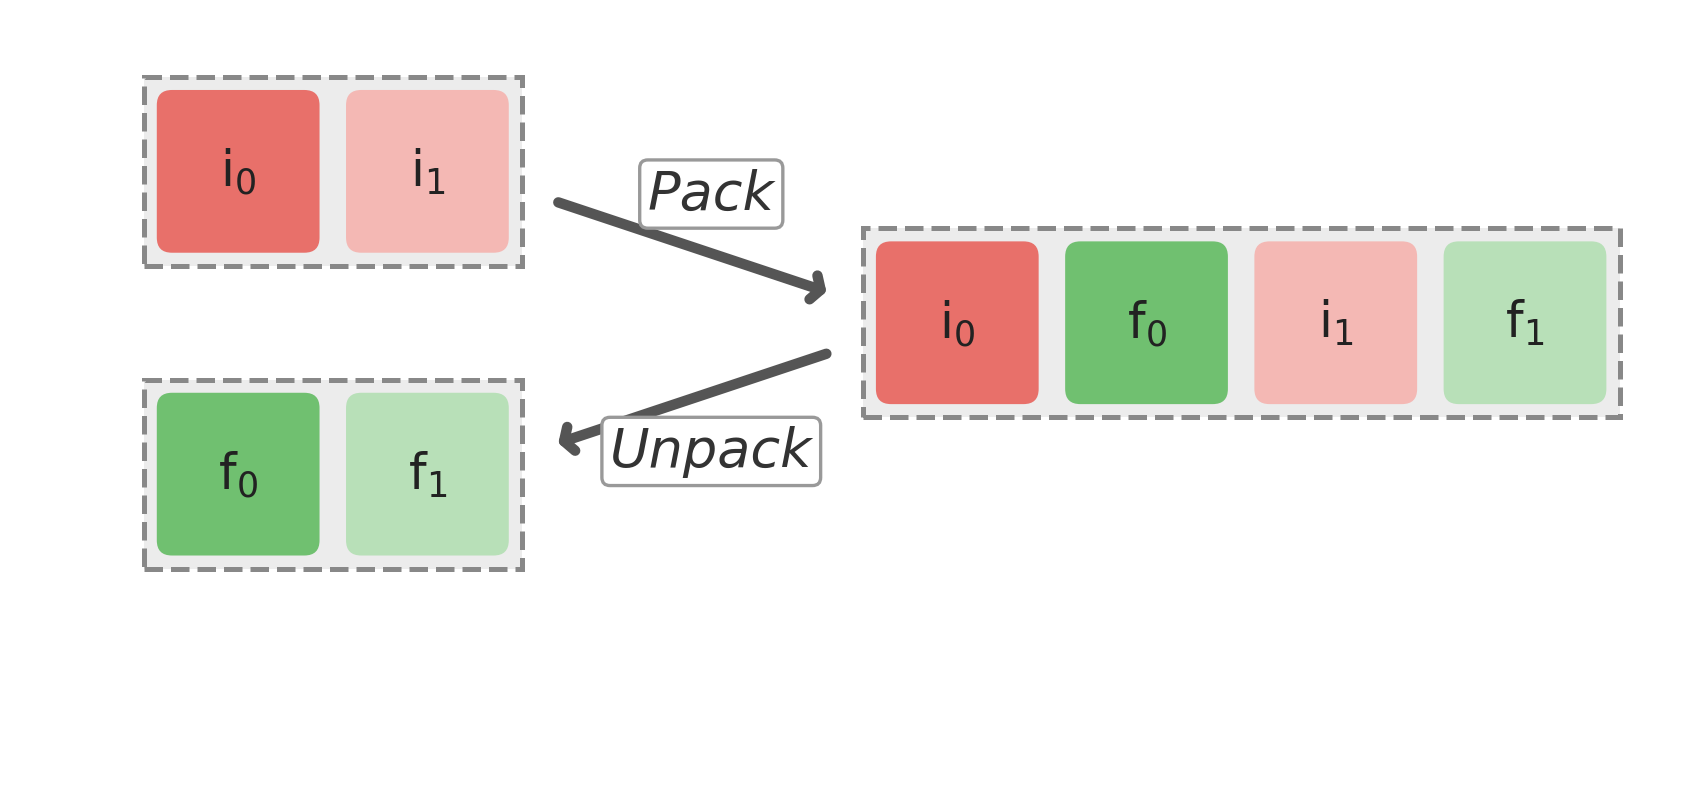
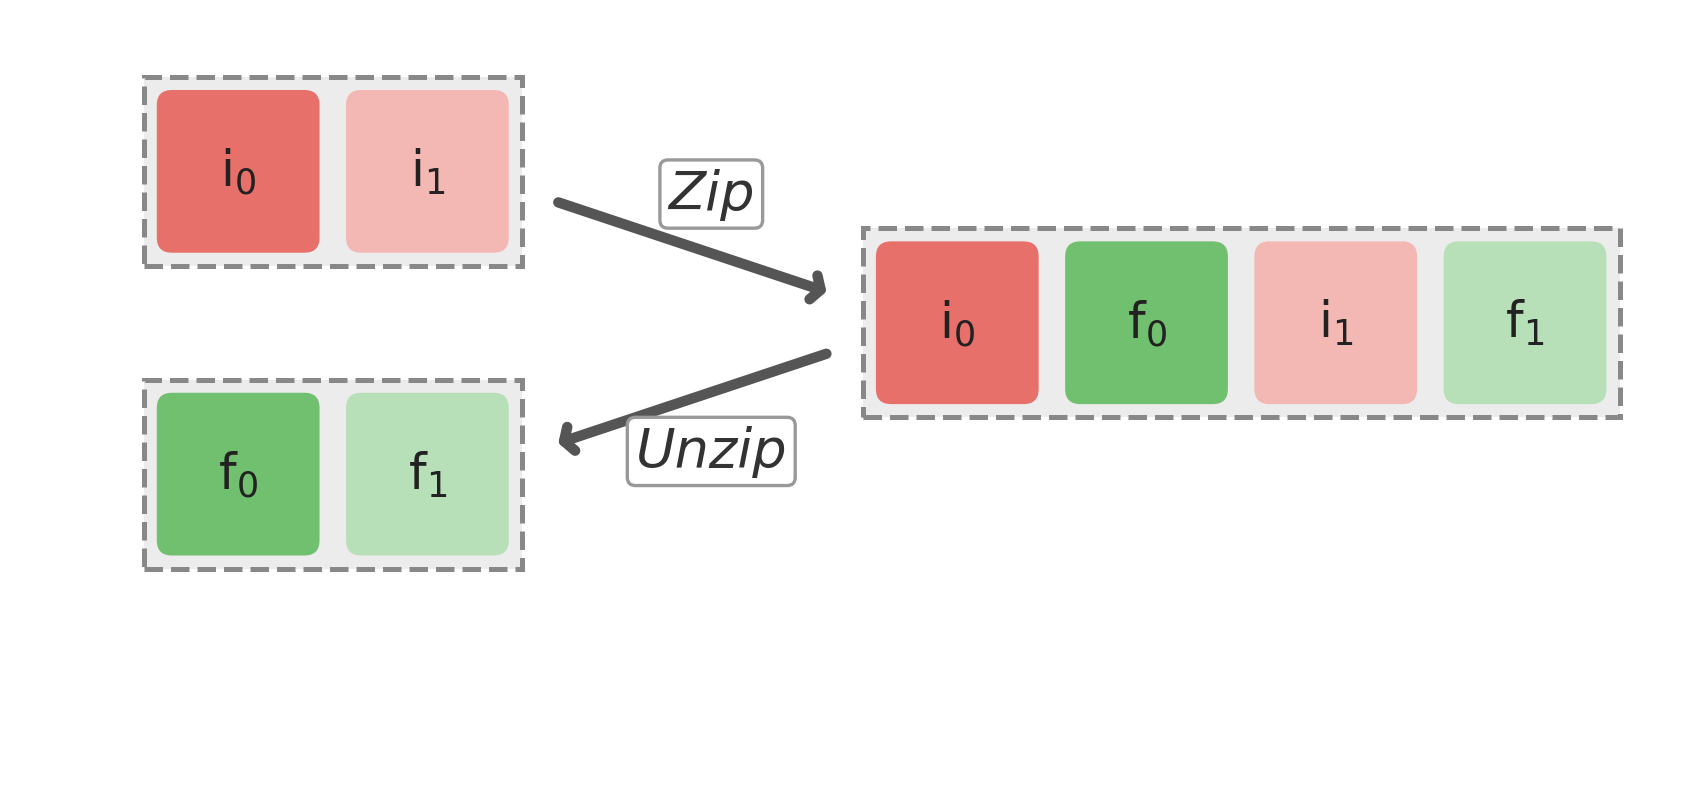
Add

Changed region(s): [[0.3417, 0.5178, 0.4971, 0.6091], [0.3728, 0.1827, 0.466, 0.3046]]

diff --git a/Plots/LayoutTransformations/pack_unpack.py b/Plots/LayoutTransformations/pack_unpack.py
@@ -95,7 +95,7 @@ a2x = pack_x0 - cell/2 - 0.15
 a2y = pack_y + 0.15
 ax.annotate('', xy=(a2x, a2y), xytext=(a1x, a1y), arrowprops=arrow_kw)
 mx, my = (a1x+a2x)/2, (a1y+a2y)/2
-ax.text(mx+0.1 , my + 0.28, 'Pack', ha='center', va='center',
+ax.text(mx+0.1 , my + 0.28, 'Zip', ha='center', va='center',
         fontsize=13, fontstyle='italic', color='#333',
         bbox=dict(boxstyle='round,pad=0.15', facecolor='white',
                   edgecolor='#999999', linewidth=0.8))
@@ -107,7 +107,7 @@ b2x = f_x0 + cell + cell/2 + 0.15
 b2y = f_y + 0.15
 ax.annotate('', xy=(b2x, b2y), xytext=(b1x, b1y), arrowprops=arrow_kw)
 mx2, my2 = (b1x+b2x)/2, (b1y+b2y)/2
-ax.text(mx2+0.1 , my2 - 0.28, 'Unpack', ha='center', va='center',
+ax.text(mx2+0.1 , my2 - 0.28, 'Unzip', ha='center', va='center',
         fontsize=13, fontstyle='italic', color='#333',
         bbox=dict(boxstyle='round,pad=0.15', facecolor='white',
                   edgecolor='#999999', linewidth=0.8))
